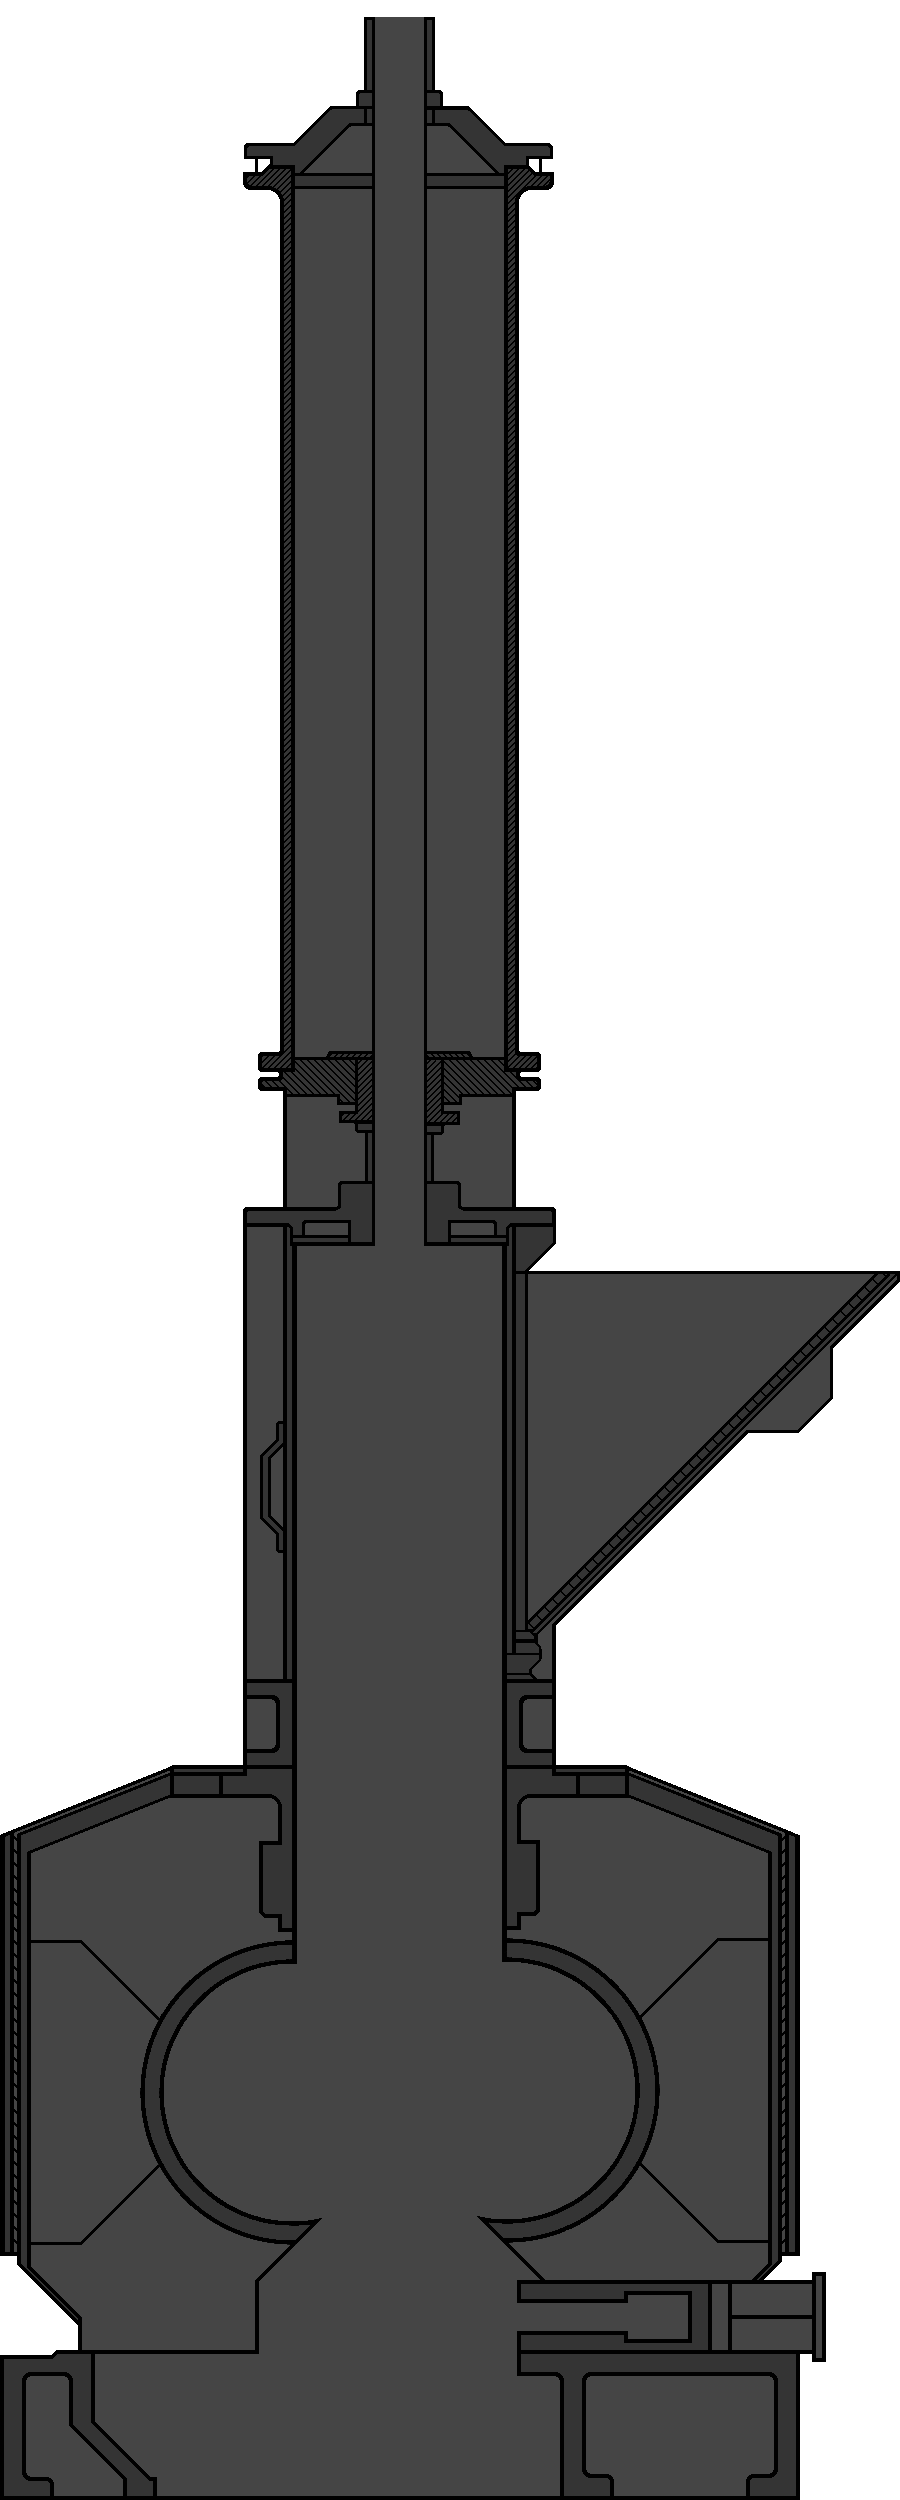
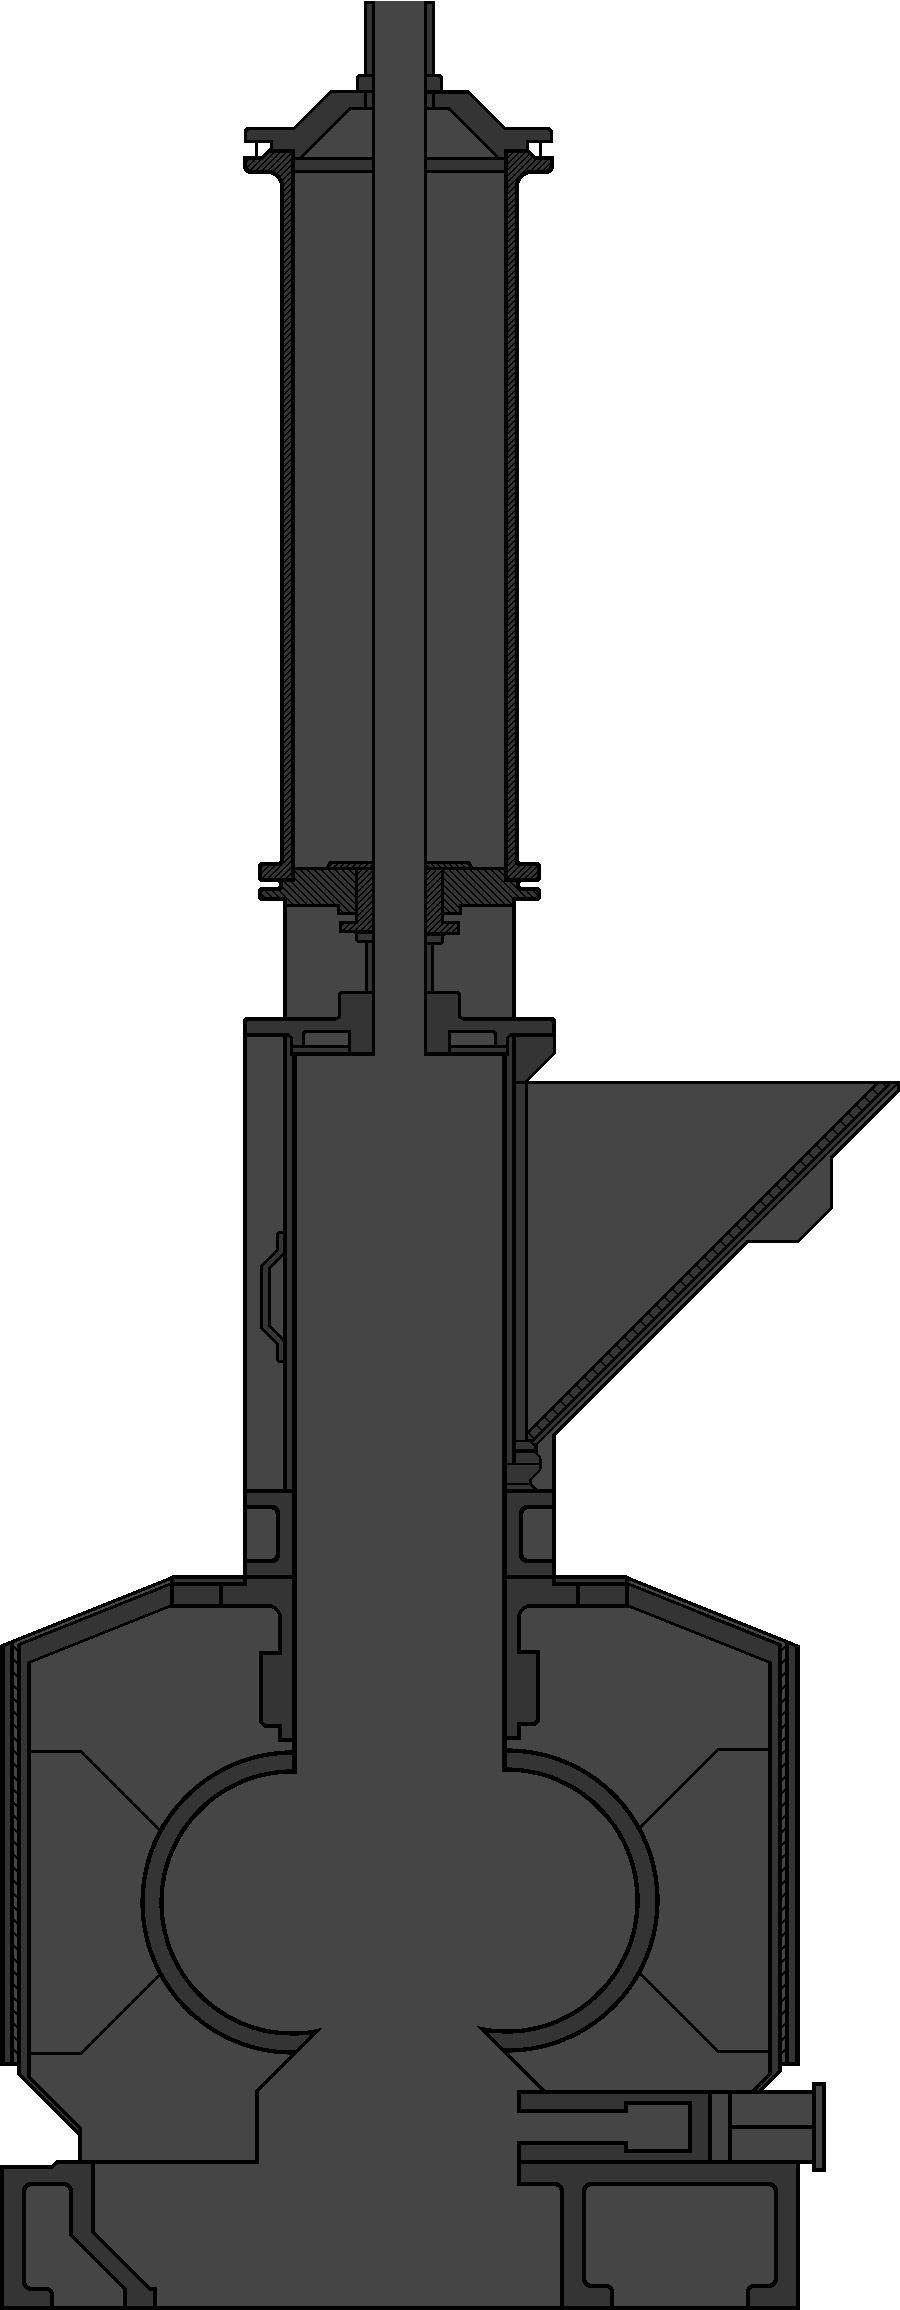
+ кнопки на нижнюю панель

diff --git a/MainWindow.xaml b/MainWindow.xaml
@@ -15,7 +15,7 @@
             <ColumnDefinition Width="1000*"/>
         </Grid.ColumnDefinitions>
 
-        <Viewbox Grid.Column="1" Grid.Row="0" HorizontalAlignment="Left">
+        <Viewbox Grid.Column="0" Grid.Row="0" HorizontalAlignment="Center">
             <Canvas Width="1920" Height="1040">
                 <!--<local:UCScales5 x:Name="ScalesC2" Titele="Весы Ы" Canvas.Left="240" Canvas.Top="700"/>-->
 
@@ -49,18 +49,23 @@
                 <Label Background="Gray" BorderThickness="1" BorderBrush="Black" Content="     НАЖАТ&#10;АВАРИЙНИК" Height="40" Canvas.Left="2" Canvas.Top="90" Width="100" FontSize="11" HorizontalContentAlignment="Center" VerticalContentAlignment="Center" Padding="1" FontWeight="Bold" Foreground="White"/>
                 <Label Background="Gray" BorderThickness="1" BorderBrush="Black" Content="    ПУРФ&#10;ВКЛЮЧЕН" Height="40" Canvas.Left="104" Canvas.Top="48" Width="100" FontSize="11" HorizontalContentAlignment="Center" VerticalContentAlignment="Center" Padding="1" FontWeight="Bold" Foreground="White"/>
                 <Label Background="Gray" BorderThickness="1" BorderBrush="Black" Content="ШНЕК ПОД-КИ&#10;    ВКЛЮЧЕН" Height="40" Canvas.Left="104" Canvas.Top="90" Width="100" FontSize="11" HorizontalContentAlignment="Center" VerticalContentAlignment="Center" Padding="1" FontWeight="Bold" Foreground="White"/>
+                
+                <Label Background="Gray" BorderThickness="1" BorderBrush="Black" Content="ТЕМПЕРАТУРА&#10;КРИТИЧЕСКАЯ" Height="40" Canvas.Left="10" Canvas.Top="790" Width="112" FontSize="11" HorizontalContentAlignment="Center" VerticalContentAlignment="Center" Padding="1" FontWeight="Bold" Foreground="White"/>
+                <Label Background="Gray" BorderThickness="1" BorderBrush="Black" Content="ТЕМПЕРАТУРА&#10;    ВЫСОКАЯ" Height="40" Canvas.Left="10" Canvas.Top="832" Width="112" FontSize="11" HorizontalContentAlignment="Center" VerticalContentAlignment="Center" Padding="1" FontWeight="Bold" Foreground="White"/>
+                <Label Background="Gray" BorderThickness="1" BorderBrush="Black" Content="НЕТ +24В" Height="40" Canvas.Left="10" Canvas.Top="874" Width="112" FontSize="11" HorizontalContentAlignment="Center" VerticalContentAlignment="Center" Padding="1" FontWeight="Bold" Foreground="White"/>
+                <Label Background="Gray" BorderThickness="1" BorderBrush="Black" Content="НЕТ СВЯЗИ" Height="40" Canvas.Left="10" Canvas.Top="918" Width="112" FontSize="11" HorizontalContentAlignment="Center" VerticalContentAlignment="Center" Padding="1" FontWeight="Bold" Foreground="White"/>
 
-                <Grid Name="Mixer" Canvas.Top="256" Canvas.Left="80" Panel.ZIndex="1">
+                <Grid Name="Mixer" Canvas.Top="210" Canvas.Left="130" Panel.ZIndex="1">
                     <Grid.ColumnDefinitions>
                         <ColumnDefinition/>
                     </Grid.ColumnDefinitions>
                     <Grid.RowDefinitions>
                         <RowDefinition/>
                     </Grid.RowDefinitions>
-                    <Canvas Grid.Column="0" Grid.Row="0" Width="280" Height="780">
+                    <Canvas Grid.Column="0" Grid.Row="0" Width="280" Height="720">
                         <Image Source="/img/mixerMain.png" Width="280"/>
-                        <Image Source="/img/rotor.png" Width="80" Canvas.Left="50" Canvas.Top="610"/>
-                        <Image Source="/img/rotor.png" Width="80" Canvas.Left="118" Canvas.Top="610" RenderTransformOrigin="0.5,0.5">
+                        <Image Source="/MixRubber2;component/img/Rotor.png" Width="80" Canvas.Left="52" Canvas.Top="550"/>
+                        <Image Source="/MixRubber2;component/img/Rotor.png" Width="80" Canvas.Left="120" Canvas.Top="550" RenderTransformOrigin="0.5,0.5">
                             <Image.RenderTransform>
                                 <TransformGroup>
                                     <ScaleTransform/>
@@ -86,14 +91,14 @@
                     </Canvas>
                 </Grid>
 
-                <Path Fill="#696969" StrokeThickness="2" Stroke="Black" Canvas.Left="320" Canvas.Top="570" Panel.ZIndex="0">
+                <Path Fill="#696969" StrokeThickness="2" Stroke="Black" Canvas.Left="320" Canvas.Top="465" Panel.ZIndex="0">
                     <Path.Data>
                         <CombinedGeometry GeometryCombineMode="Union">
                             <CombinedGeometry.Geometry1>
-                                <RectangleGeometry Rect="0,120 413,11"/>
+                                <RectangleGeometry Rect="50,122 363,8"/>
                             </CombinedGeometry.Geometry1>
                             <CombinedGeometry.Geometry2>
-                                <RectangleGeometry Rect="402, -77 11,200"/>
+                                <RectangleGeometry Rect="402, 28 11,100"/>
                             </CombinedGeometry.Geometry2>
                         </CombinedGeometry>
                     </Path.Data>
@@ -427,7 +432,83 @@
                 </Grid>
                 <Button Click="btnFullScreen_Click" Content="Button" Canvas.Left="1787" Canvas.Top="4" Height="34" Width="132" HorizontalAlignment="Left" VerticalAlignment="Center"/>
 
+                <Grid Name="Temperature" Canvas.Left="10" Canvas.Top="450">
+                    <Grid.ColumnDefinitions>
+                        <ColumnDefinition/>
+                    </Grid.ColumnDefinitions>
+                    <Grid.RowDefinitions>
+                        <RowDefinition/>
+                    </Grid.RowDefinitions>
+                    <Canvas Grid.Row="0" Grid.Column="0" Width="112" Height="207">
+                        <Label Background="#FFAAAAAA" Content="Температура" Height="25" Width="112" FontSize="18" VerticalContentAlignment="Center" HorizontalContentAlignment="Center" Padding="0"/>
+                        <Label Background="#FFAAAAAA" Content="T1-подача:" Height="25" Canvas.Top="26" Width="58" FontSize="11" VerticalContentAlignment="Center" Padding="1"/>
+                        <TextBlock Name="txtT1" Height="25" Canvas.Left="59" Text="100.0" Canvas.Top="26" Width="53" TextAlignment="Center" FontSize="18" Background="LightGray"/>
+                        <Label Background="#FFAAAAAA" Content="T2-в/лев:" Height="25" Canvas.Top="52" Width="58" FontSize="11" VerticalContentAlignment="Center" Padding="1"/>
+                        <TextBlock Name="txtT2" Height="25" Canvas.Left="59" Text="0" Canvas.Top="52" Width="53" TextAlignment="Center" FontSize="18" Background="LightGray"/>
+                        <Label Background="#FFAAAAAA" Content="T3-н/лев:" Height="25" Canvas.Top="78" Width="58" FontSize="11" VerticalContentAlignment="Center" Padding="1"/>
+                        <TextBlock Name="txtT3" Height="25" Canvas.Left="59" Text="0" Canvas.Top="78" Width="53" TextAlignment="Center" FontSize="18" Background="LightGray"/>
+                        <Label Background="#FFAAAAAA" Content="T4-в/прав:" Height="25" Canvas.Top="104" Width="58" FontSize="11" VerticalContentAlignment="Center" Padding="1"/>
+                        <TextBlock Name="txtT4" Height="25" Canvas.Left="59" Text="0" Canvas.Top="104" Width="53" TextAlignment="Center" FontSize="18" Background="LightGray"/>
+                        <Label Background="#FFAAAAAA" Content="T5-н/прав:" Height="25" Canvas.Top="130" Width="58" FontSize="11" VerticalContentAlignment="Center" Padding="1"/>
+                        <TextBlock Name="txtT5" Height="25" Canvas.Left="59" Text="0" Canvas.Top="130" Width="53" TextAlignment="Center" FontSize="18" Background="LightGray"/>
+                        <Label Background="#FFAAAAAA" Content="T1-ротор:" Height="25" Canvas.Top="156" Width="58" FontSize="11" VerticalContentAlignment="Center" Padding="1"/>
+                        <TextBlock Name="txtTRotor1" Height="25" Canvas.Left="59" Text="0" Canvas.Top="156" Width="53" TextAlignment="Center" FontSize="18" Background="LightGray"/>
+                        <Label Background="#FFAAAAAA" Content="T2-ротор:" Height="25" Canvas.Top="182" Width="58" FontSize="11" VerticalContentAlignment="Center" Padding="1"/>
+                        <TextBlock Name="txtTRotor2" Height="25" Canvas.Left="59" Text="0" Canvas.Top="182" Width="53" TextAlignment="Center" FontSize="18" Background="LightGray"/>
+                    </Canvas>
+                </Grid>
+
+                <Grid Name="Info" Canvas.Left="130" Canvas.Top="934">
+                    <Grid.ColumnDefinitions>
+                        <ColumnDefinition/>
+                    </Grid.ColumnDefinitions>
+                    <Grid.RowDefinitions>
+                        <RowDefinition/>
+                    </Grid.RowDefinitions>
+                    <Canvas Grid.Row="0" Grid.Column="0" Width="249" Height="103">
+                        <Label Background="#FFAAAAAA" Content="Выгрузка по термопаре:" Height="25" Width="130" FontSize="11" VerticalContentAlignment="Center" Padding="1"/>
+                        <TextBlock Name="txtUnloadSensor" Height="25" Canvas.Left="131" Text="верхняя" Width="118" TextAlignment="Center" FontSize="18" Background="LightGray"/>
+                        <Label Background="#FFAAAAAA" Content="Тем-ра критическая:" Height="25" Canvas.Top="26" Width="130" FontSize="11" VerticalContentAlignment="Center" Padding="1"/>
+                        <TextBlock Name="txtTCritical" Height="25" Canvas.Left="131" Text="0" Canvas.Top="26" Width="118" TextAlignment="Center" FontSize="18" Background="LightGray"/>
+                        <Label Background="#FFAAAAAA" Content="Т выгрузки заданная:" Height="25" Canvas.Top="52" Width="130" FontSize="11" VerticalContentAlignment="Center" Padding="1"/>
+                        <TextBlock Name="txtTUnloadFill" Height="25" Canvas.Left="131" Text="0" Canvas.Top="52" Width="118" TextAlignment="Center" FontSize="18" Background="LightGray"/>
+                        <Label Background="#FFAAAAAA" Content="Т выгрузки по датчику:" Height="25" Canvas.Top="78" Width="130" FontSize="11" VerticalContentAlignment="Center" Padding="1"/>
+                        <TextBlock Name="txtTUnloadSensor" Height="25" Canvas.Left="131" Text="0" Canvas.Top="78" Width="118" TextAlignment="Center" FontSize="18" Background="LightGray"/>
+                    </Canvas>
+                </Grid>
+
             </Canvas>
         </Viewbox>
+
+        <Grid Grid.Column="0" Grid.Row="1">
+            <Grid.RowDefinitions>
+                <RowDefinition/>
+            </Grid.RowDefinitions>
+            <Grid.ColumnDefinitions>
+                <ColumnDefinition Width="1500*"/>
+                <ColumnDefinition Width="1000*"/>
+                <ColumnDefinition Width="1000*"/>
+                <ColumnDefinition Width="1000*"/>
+                <ColumnDefinition Width="1000*"/>
+                <ColumnDefinition Width="1000*"/>
+                <ColumnDefinition Width="1000*"/>
+                <ColumnDefinition Width="1000*"/>
+            </Grid.ColumnDefinitions>
+            <Viewbox Grid.Column="0" Grid.Row="0" HorizontalAlignment="Center">
+                <Canvas Width="7200" Height="1040">
+                    <Label Content="Время смешения:" Width="4000" Height="500" FontSize="350" FontWeight="Bold" Foreground="White"/>
+                    <Label Content="0 сек." Canvas.Left="5000" Width="2000" Height="500" FontSize="350" FontWeight="Bold" Foreground="White"/>
+                    <Label Content="Время под давлением:" Canvas.Top="550" Width="4000" Height="500" FontSize="350" FontWeight="Bold" Foreground="White"/>
+                    <Label Content="0 сек." Canvas.Left="5000" Canvas.Top="550" Width="2000" Height="500" FontSize="350" FontWeight="Bold" Foreground="White"/>
+                </Canvas>
+            </Viewbox>
+            <Button Name="btnScheme" Content="МНЕМОСХЕМА" Grid.Column="1" FontSize="20" FontWeight="Bold" Background="Green" Foreground="White"/>
+            <Button Name="btnDoze" Content="ДОЗАТОР" Grid.Column="2" FontSize="20" FontWeight="Bold"/>
+            <Button Name="btnAlarm" Content="АВАРИИ" Grid.Column="3" FontSize="20" FontWeight="Bold"/>
+            <Button Name="btnTest" Content="ТЕСТ" Grid.Column="4" FontSize="20" FontWeight="Bold"/>
+            <Button Name="btnDiag" Content="ДИАГРАММА" Grid.Column="5" FontSize="20" FontWeight="Bold"/>
+            <Button Name="btnStatistic" Content="СТАТИСТИКА" Grid.Column="6" FontSize="20" FontWeight="Bold"/>
+            <Button Name="btnChart" Content="ТРЕНДЫ" Grid.Column="7" FontSize="20" FontWeight="Bold"/>
+        </Grid>
     </Grid>
 </Window>

diff --git a/MainWindow.xaml.cs b/MainWindow.xaml.cs
@@ -143,7 +143,7 @@ namespace MixRubber2
             OPCDA.AllTags.Where(x => x.Name == "ScalesY_CurReal").First().ValueChanged += ScalesU_CurReal_ValueChanged;
             OPCDA.AllTags.Where(x => x.Name == "ScalesY_FullReal").First().ValueChanged += ScalesU_FullReal_ValueChanged;
             */
-            OPCDA.ConnectionOPC();
+            //OPCDA.ConnectionOPC();
         }
 
 
